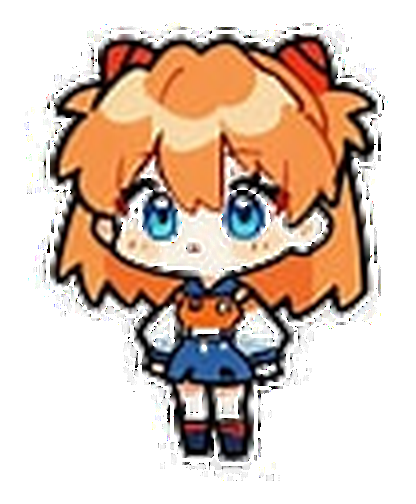
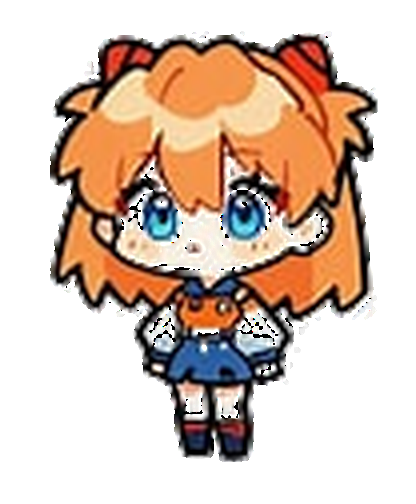
feat: 替换 SVG 为不透明 PNG，小菜人物完全不透明
使用 asuka_opaque_body.png 替代动态 SVG，实现人物完全实心不透明。
同时增加好感度、更新对话记录。

保留 SVG 方案相关的 CSS 和 JS 代码以备后续切换。

diff --git a/frontend/style.css b/frontend/style.css
@@ -443,3 +443,45 @@ body.is-dragging .chat-box button#sendBtn {
   transition: none !important;
 }
 /* ===== End Drag input width HARD LOCK v4 ===== */
+
+/* ===== Opaque pet image patch ===== */
+#svgWrap .pet-img {
+  opacity: 1 !important;
+  width: 120px;
+  height: auto;
+  min-height: 144px;
+  transform-origin: center bottom;
+  will-change: transform;
+  display: block;
+  pointer-events: none;
+  user-select: none;
+  -webkit-user-drag: none;
+}
+
+#svgWrap.state-idle .pet-img {
+  animation: float 3s ease-in-out infinite;
+}
+
+#svgWrap.state-talking .pet-img {
+  animation: talk 0.4s ease-in-out infinite;
+}
+
+#svgWrap.state-happy .pet-img {
+  animation: bounce 0.6s ease-in-out 4;
+}
+
+#svgWrap.state-angry .pet-img {
+  animation: shake 0.3s ease-in-out infinite;
+}
+
+#svgWrap.state-sleep .pet-img {
+  animation: sway 4s ease-in-out infinite;
+  opacity: 1 !important;
+}
+
+#svgWrap.state-walk .pet-img {
+  animation: none !important;
+  transform: translateY(0) rotate(0deg) !important;
+  opacity: 1 !important;
+}
+/* ===== End opaque pet image patch ===== */

diff --git a/frontend/pet.js b/frontend/pet.js
@@ -31,24 +31,22 @@ const BUBBLE_PHRASES = [
   "完成了？还不错嘛。"
 ];
 
-// ===== Init: Fetch and inline SVG =====
-fetch("./assets/pet.svg")
-  .then(r => r.text())
-  .then(svgContent => {
-    svgWrap.innerHTML = svgContent;
-    svgWrap.classList.add("state-idle");
-    startIdleTimer();
-    updateWindowShape();
-  })
-  .catch(() => {
-    svgWrap.textContent = "(>_<)";
-    svgWrap.style.fontSize = "80px";
-    svgWrap.style.textAlign = "center";
-    svgWrap.style.paddingTop = "60px";
-    svgWrap.classList.add("state-idle");
-    startIdleTimer();
-    updateWindowShape();
-  });
+// ===== Init: Use opaque PNG pet image =====
+function mountPetImage() {
+  svgWrap.innerHTML = `
+    <img
+      class="pet-img"
+      src="./assets/asuka_opaque_body.png"
+      draggable="false"
+      alt="小菜"
+    />
+  `;
+  svgWrap.classList.add("state-idle");
+  startIdleTimer();
+  updateWindowShape();
+}
+
+mountPetImage();
 
 // ===== State Management =====
 function setPetState(state) {
